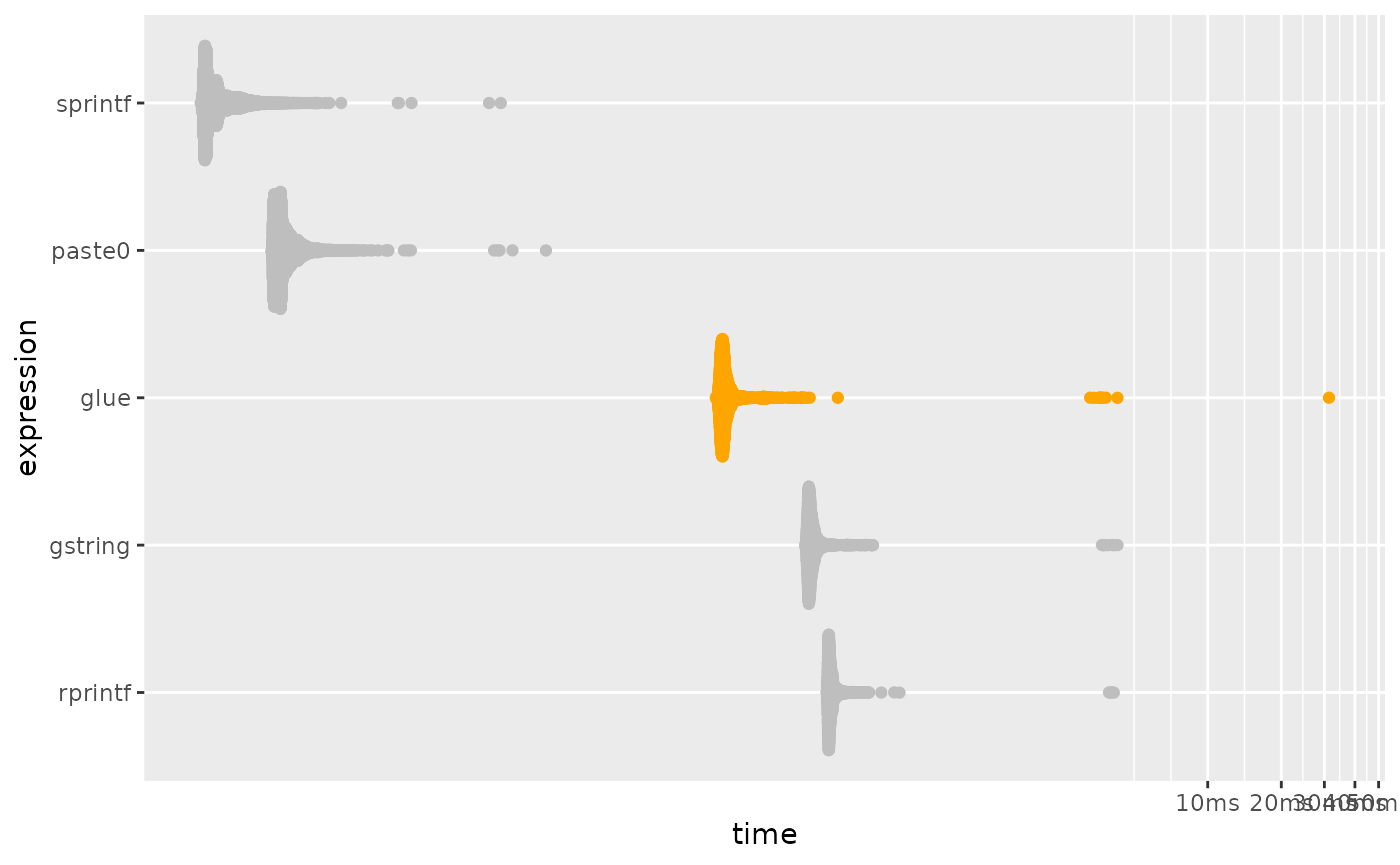
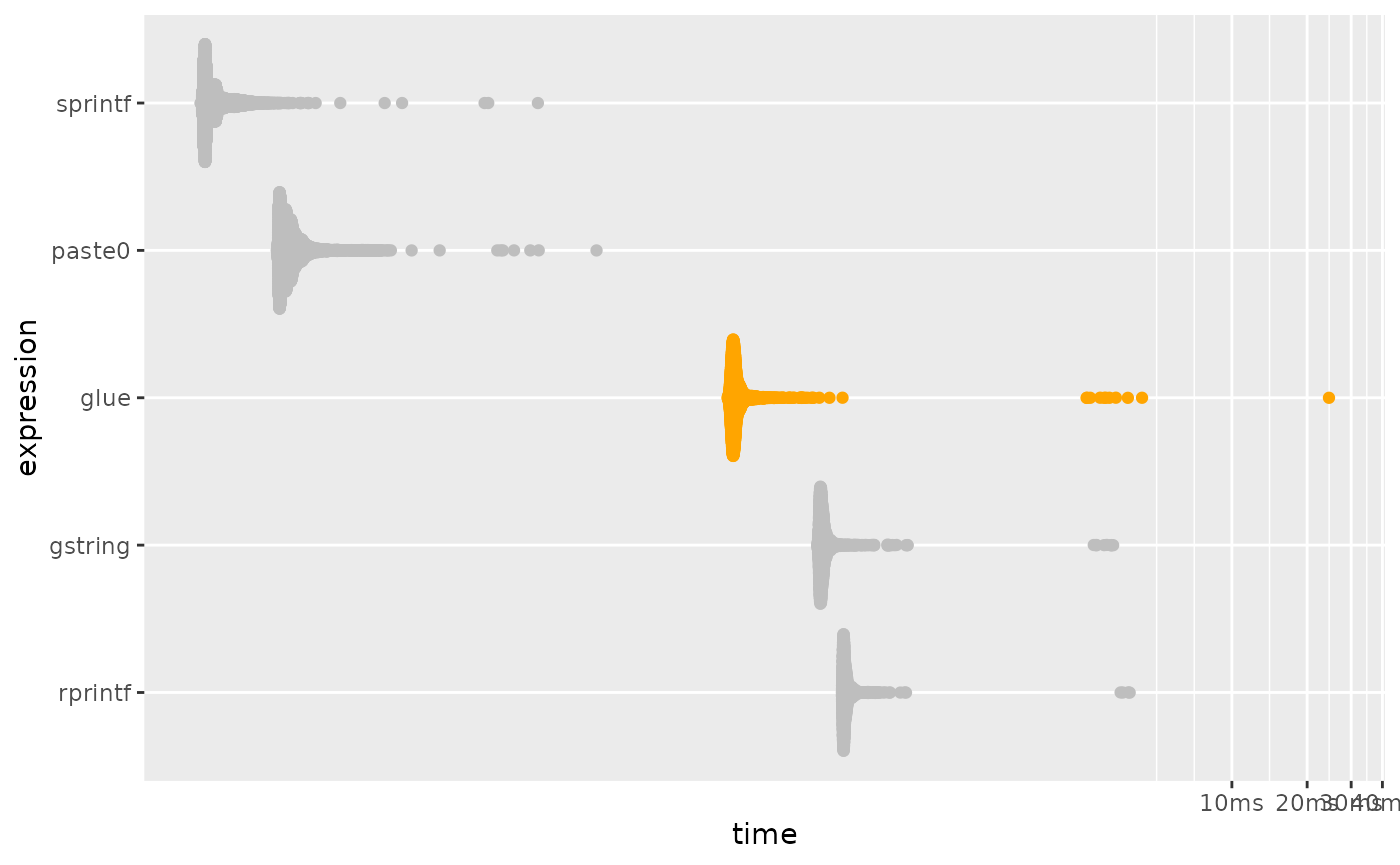
Deploying to gh-pages from @ tidyverse/glue@4809a463efd836547d78b8ee624f62a25f7a3829 🚀

diff --git a/dev/articles/speed.html b/dev/articles/speed.html
@@ -50,7 +50,7 @@
 <li class="active nav-item dropdown">
   <button class="nav-link dropdown-toggle" type="button" id="dropdown-articles" data-bs-toggle="dropdown" aria-expanded="false" aria-haspopup="true">Articles</button>
   <ul class="dropdown-menu" aria-labelledby="dropdown-articles">
-<li><a class="dropdown-item" href="../articles/engines.html">glue custom knitr language engines</a></li>
+<li><a class="dropdown-item" href="../articles/engines.html">Custom knitr language engines</a></li>
     <li><a class="dropdown-item" href="../articles/speed.html">Speed of glue</a></li>
     <li><a class="dropdown-item" href="../articles/transformers.html">Transformers</a></li>
     <li><a class="dropdown-item" href="../articles/wrappers.html">How to write a function that wraps glue</a></li>
@@ -154,11 +154,11 @@ this benchmark, but is now formally marked as “superseded”, in favor of
 <span><span class="co">#&gt; <span style="color: #949494;"># A tibble: 5 × 6</span></span></span>
 <span><span class="co">#&gt;   expression      min   median `itr/sec` mem_alloc `gc/sec`</span></span>
 <span><span class="co">#&gt;   <span style="color: #949494; font-style: italic;">&lt;bch:expr&gt;</span> <span style="color: #949494; font-style: italic;">&lt;bch:tm&gt;</span> <span style="color: #949494; font-style: italic;">&lt;bch:tm&gt;</span>     <span style="color: #949494; font-style: italic;">&lt;dbl&gt;</span> <span style="color: #949494; font-style: italic;">&lt;bch:byt&gt;</span>    <span style="color: #949494; font-style: italic;">&lt;dbl&gt;</span></span></span>
-<span><span class="co">#&gt; <span style="color: #BCBCBC;">1</span> sprintf    761.12ns 871.02ns  1<span style="text-decoration: underline;">090</span>374.        0B     0   </span></span>
-<span><span class="co">#&gt; <span style="color: #BCBCBC;">2</span> paste0       1.48µs   1.63µs   <span style="text-decoration: underline;">584</span>208.        0B     0   </span></span>
-<span><span class="co">#&gt; <span style="color: #BCBCBC;">3</span> glue        97.28µs 104.54µs     <span style="text-decoration: underline;">9</span>295.  141.72KB    25.5 </span></span>
-<span><span class="co">#&gt; <span style="color: #BCBCBC;">4</span> gstring    226.35µs 236.93µs     <span style="text-decoration: underline;">4</span>135.    2.45MB    14.8 </span></span>
-<span><span class="co">#&gt; <span style="color: #BCBCBC;">5</span> rprintf       276µs 284.96µs     <span style="text-decoration: underline;">3</span>447.  503.39KB     8.27</span></span>
+<span><span class="co">#&gt; <span style="color: #BCBCBC;">1</span> sprintf    751.11ns 812.11ns  1<span style="text-decoration: underline;">147</span>690.        0B     0   </span></span>
+<span><span class="co">#&gt; <span style="color: #BCBCBC;">2</span> paste0       1.51µs   1.68µs   <span style="text-decoration: underline;">570</span>589.        0B     0   </span></span>
+<span><span class="co">#&gt; <span style="color: #BCBCBC;">3</span> glue        96.09µs 102.31µs     <span style="text-decoration: underline;">9</span>544.  141.72KB    24.8 </span></span>
+<span><span class="co">#&gt; <span style="color: #BCBCBC;">4</span> gstring    220.01µs 229.09µs     <span style="text-decoration: underline;">4</span>263.    2.45MB    16.8 </span></span>
+<span><span class="co">#&gt; <span style="color: #BCBCBC;">5</span> rprintf    275.61µs  282.6µs     <span style="text-decoration: underline;">3</span>472.  503.39KB     8.25</span></span>
 <span></span>
 <span><span class="co"># plotting function defined in a hidden chunk</span></span>
 <span><span class="fu">plot_comparison</span><span class="op">(</span><span class="va">simple</span><span class="op">)</span></span>
@@ -207,11 +207,11 @@ performance is much closer to that of <code><a href="https://rdrr.io/r/base/past
 <span><span class="co">#&gt; <span style="color: #949494;"># A tibble: 5 × 6</span></span></span>
 <span><span class="co">#&gt;   expression      min   median `itr/sec` mem_alloc `gc/sec`</span></span>
 <span><span class="co">#&gt;   <span style="color: #949494; font-style: italic;">&lt;bch:expr&gt;</span> <span style="color: #949494; font-style: italic;">&lt;bch:tm&gt;</span> <span style="color: #949494; font-style: italic;">&lt;bch:tm&gt;</span>     <span style="color: #949494; font-style: italic;">&lt;dbl&gt;</span> <span style="color: #949494; font-style: italic;">&lt;bch:byt&gt;</span>    <span style="color: #949494; font-style: italic;">&lt;dbl&gt;</span></span></span>
-<span><span class="co">#&gt; <span style="color: #BCBCBC;">1</span> paste0       8.19ms    8.2ms     121.    781.3KB     6.39</span></span>
-<span><span class="co">#&gt; <span style="color: #BCBCBC;">2</span> sprintf      8.94ms   8.99ms     111.    781.3KB     4.19</span></span>
-<span><span class="co">#&gt; <span style="color: #BCBCBC;">3</span> gstring     11.03ms  11.11ms      89.1    1.53MB     6.52</span></span>
-<span><span class="co">#&gt; <span style="color: #BCBCBC;">4</span> glue         11.3ms  11.81ms      84.0    2.29MB     9.08</span></span>
-<span><span class="co">#&gt; <span style="color: #BCBCBC;">5</span> rprintf      27.5ms  27.64ms      36.0    3.05MB     7.21</span></span>
+<span><span class="co">#&gt; <span style="color: #BCBCBC;">1</span> paste0       8.18ms   8.23ms     120.    781.3KB     4.23</span></span>
+<span><span class="co">#&gt; <span style="color: #BCBCBC;">2</span> sprintf      9.01ms   9.29ms     108.    781.3KB     4.17</span></span>
+<span><span class="co">#&gt; <span style="color: #BCBCBC;">3</span> gstring     11.05ms  11.21ms      87.9    1.53MB     9.01</span></span>
+<span><span class="co">#&gt; <span style="color: #BCBCBC;">4</span> glue        11.25ms  11.72ms      85.7    2.29MB    11.6 </span></span>
+<span><span class="co">#&gt; <span style="color: #BCBCBC;">5</span> rprintf     27.41ms  28.19ms      35.0    3.05MB     4.37</span></span>
 <span></span>
 <span><span class="co"># plotting function defined in a hidden chunk</span></span>
 <span><span class="fu">plot_comparison</span><span class="op">(</span><span class="va">vectorized</span><span class="op">)</span></span></code></pre></div>

diff --git a/dev/articles/engines.html b/dev/articles/engines.html
@@ -5,7 +5,7 @@
 <meta charset="utf-8">
 <meta http-equiv="X-UA-Compatible" content="IE=edge">
 <meta name="viewport" content="width=device-width, initial-scale=1, shrink-to-fit=no">
-<title>glue custom knitr language engines • glue</title>
+<title>Custom knitr language engines • glue</title>
 <!-- favicons --><link rel="icon" type="image/png" sizes="16x16" href="../favicon-16x16.png">
 <link rel="icon" type="image/png" sizes="32x32" href="../favicon-32x32.png">
 <link rel="apple-touch-icon" type="image/png" sizes="180x180" href="../apple-touch-icon.png">
@@ -18,7 +18,7 @@
 <link href="../deps/Source_Code_Pro-0.4.9/font.css" rel="stylesheet">
 <link href="../deps/font-awesome-6.4.2/css/all.min.css" rel="stylesheet">
 <link href="../deps/font-awesome-6.4.2/css/v4-shims.min.css" rel="stylesheet">
-<script src="../deps/headroom-0.11.0/headroom.min.js"></script><script src="../deps/headroom-0.11.0/jQuery.headroom.min.js"></script><script src="../deps/bootstrap-toc-1.0.1/bootstrap-toc.min.js"></script><script src="../deps/clipboard.js-2.0.11/clipboard.min.js"></script><script src="../deps/search-1.0.0/autocomplete.jquery.min.js"></script><script src="../deps/search-1.0.0/fuse.min.js"></script><script src="../deps/search-1.0.0/mark.min.js"></script><!-- pkgdown --><script src="../pkgdown.js"></script><meta property="og:title" content="glue custom knitr language engines">
+<script src="../deps/headroom-0.11.0/headroom.min.js"></script><script src="../deps/headroom-0.11.0/jQuery.headroom.min.js"></script><script src="../deps/bootstrap-toc-1.0.1/bootstrap-toc.min.js"></script><script src="../deps/clipboard.js-2.0.11/clipboard.min.js"></script><script src="../deps/search-1.0.0/autocomplete.jquery.min.js"></script><script src="../deps/search-1.0.0/fuse.min.js"></script><script src="../deps/search-1.0.0/mark.min.js"></script><!-- pkgdown --><script src="../pkgdown.js"></script><meta property="og:title" content="Custom knitr language engines">
 <meta name="robots" content="noindex">
 <!-- Global site tag (gtag.js) - Google Analytics --><script async src="https://www.googletagmanager.com/gtag/js?id=UA-115082821-1"></script><script>
   window.dataLayer = window.dataLayer || [];
@@ -50,7 +50,7 @@
 <li class="active nav-item dropdown">
   <button class="nav-link dropdown-toggle" type="button" id="dropdown-articles" data-bs-toggle="dropdown" aria-expanded="false" aria-haspopup="true">Articles</button>
   <ul class="dropdown-menu" aria-labelledby="dropdown-articles">
-<li><a class="dropdown-item" href="../articles/engines.html">glue custom knitr language engines</a></li>
+<li><a class="dropdown-item" href="../articles/engines.html">Custom knitr language engines</a></li>
     <li><a class="dropdown-item" href="../articles/speed.html">Speed of glue</a></li>
     <li><a class="dropdown-item" href="../articles/transformers.html">Transformers</a></li>
     <li><a class="dropdown-item" href="../articles/wrappers.html">How to write a function that wraps glue</a></li>
@@ -83,7 +83,7 @@
 
 <div class="row">
   <main id="main" class="col-md-9"><div class="page-header">
-      <img src="../logo.png" class="logo" alt=""><h1>glue custom knitr language engines</h1>
+      <img src="../logo.png" class="logo" alt=""><h1>Custom knitr language engines</h1>
             
       
       <small class="dont-index">Source: <a href="https://github.com/tidyverse/glue/blob/main/vignettes/engines.Rmd" class="external-link"><code>vignettes/engines.Rmd</code></a></small>

diff --git a/dev/articles/index.html b/dev/articles/index.html
@@ -25,7 +25,7 @@
 <li class="nav-item"><a class="nav-link" href="../reference/index.html">Reference</a></li>
 <li class="nav-item dropdown">
   <button class="nav-link dropdown-toggle" type="button" id="dropdown-articles" data-bs-toggle="dropdown" aria-expanded="false" aria-haspopup="true">Articles</button>
-  <ul class="dropdown-menu" aria-labelledby="dropdown-articles"><li><a class="dropdown-item" href="../articles/engines.html">glue custom knitr language engines</a></li>
+  <ul class="dropdown-menu" aria-labelledby="dropdown-articles"><li><a class="dropdown-item" href="../articles/engines.html">Custom knitr language engines</a></li>
     <li><a class="dropdown-item" href="../articles/speed.html">Speed of glue</a></li>
     <li><a class="dropdown-item" href="../articles/transformers.html">Transformers</a></li>
     <li><a class="dropdown-item" href="../articles/wrappers.html">How to write a function that wraps glue</a></li>
@@ -54,7 +54,7 @@
       <h3>All vignettes</h3>
       <div class="section-desc"></div>
 
-      <dl><dt><a href="engines.html">glue custom knitr language engines</a></dt>
+      <dl><dt><a href="engines.html">Custom knitr language engines</a></dt>
         <dd>
         </dd><dt><a href="glue.html">Introduction to glue</a></dt>
         <dd>

diff --git a/dev/reference/as_glue.html b/dev/reference/as_glue.html
@@ -31,7 +31,7 @@ the addition operator.'><meta property="og:image" content="https://glue.tidyvers
 <li class="active nav-item"><a class="nav-link" href="../reference/index.html">Reference</a></li>
 <li class="nav-item dropdown">
   <button class="nav-link dropdown-toggle" type="button" id="dropdown-articles" data-bs-toggle="dropdown" aria-expanded="false" aria-haspopup="true">Articles</button>
-  <ul class="dropdown-menu" aria-labelledby="dropdown-articles"><li><a class="dropdown-item" href="../articles/engines.html">glue custom knitr language engines</a></li>
+  <ul class="dropdown-menu" aria-labelledby="dropdown-articles"><li><a class="dropdown-item" href="../articles/engines.html">Custom knitr language engines</a></li>
     <li><a class="dropdown-item" href="../articles/speed.html">Speed of glue</a></li>
     <li><a class="dropdown-item" href="../articles/transformers.html">Transformers</a></li>
     <li><a class="dropdown-item" href="../articles/wrappers.html">How to write a function that wraps glue</a></li>

diff --git a/dev/reference/glue-package.html b/dev/reference/glue-package.html
@@ -27,7 +27,7 @@ An implementation of interpreted string literals, inspired by Python's Literal S
 <li class="active nav-item"><a class="nav-link" href="../reference/index.html">Reference</a></li>
 <li class="nav-item dropdown">
   <button class="nav-link dropdown-toggle" type="button" id="dropdown-articles" data-bs-toggle="dropdown" aria-expanded="false" aria-haspopup="true">Articles</button>
-  <ul class="dropdown-menu" aria-labelledby="dropdown-articles"><li><a class="dropdown-item" href="../articles/engines.html">glue custom knitr language engines</a></li>
+  <ul class="dropdown-menu" aria-labelledby="dropdown-articles"><li><a class="dropdown-item" href="../articles/engines.html">Custom knitr language engines</a></li>
     <li><a class="dropdown-item" href="../articles/speed.html">Speed of glue</a></li>
     <li><a class="dropdown-item" href="../articles/transformers.html">Transformers</a></li>
     <li><a class="dropdown-item" href="../articles/wrappers.html">How to write a function that wraps glue</a></li>

diff --git a/dev/reference/glue.html b/dev/reference/glue.html
@@ -29,7 +29,7 @@ from the first and last lines are automatically trimmed."><meta property="og:ima
 <li class="active nav-item"><a class="nav-link" href="../reference/index.html">Reference</a></li>
 <li class="nav-item dropdown">
   <button class="nav-link dropdown-toggle" type="button" id="dropdown-articles" data-bs-toggle="dropdown" aria-expanded="false" aria-haspopup="true">Articles</button>
-  <ul class="dropdown-menu" aria-labelledby="dropdown-articles"><li><a class="dropdown-item" href="../articles/engines.html">glue custom knitr language engines</a></li>
+  <ul class="dropdown-menu" aria-labelledby="dropdown-articles"><li><a class="dropdown-item" href="../articles/engines.html">Custom knitr language engines</a></li>
     <li><a class="dropdown-item" href="../articles/speed.html">Speed of glue</a></li>
     <li><a class="dropdown-item" href="../articles/transformers.html">Transformers</a></li>
     <li><a class="dropdown-item" href="../articles/wrappers.html">How to write a function that wraps glue</a></li>

diff --git a/dev/reference/glue_col.html b/dev/reference/glue_col.html
@@ -47,7 +47,7 @@ character, specify .literal = TRUE."><meta property="og:image" content="https://
 <li class="active nav-item"><a class="nav-link" href="../reference/index.html">Reference</a></li>
 <li class="nav-item dropdown">
   <button class="nav-link dropdown-toggle" type="button" id="dropdown-articles" data-bs-toggle="dropdown" aria-expanded="false" aria-haspopup="true">Articles</button>
-  <ul class="dropdown-menu" aria-labelledby="dropdown-articles"><li><a class="dropdown-item" href="../articles/engines.html">glue custom knitr language engines</a></li>
+  <ul class="dropdown-menu" aria-labelledby="dropdown-articles"><li><a class="dropdown-item" href="../articles/engines.html">Custom knitr language engines</a></li>
     <li><a class="dropdown-item" href="../articles/speed.html">Speed of glue</a></li>
     <li><a class="dropdown-item" href="../articles/transformers.html">Transformers</a></li>
     <li><a class="dropdown-item" href="../articles/wrappers.html">How to write a function that wraps glue</a></li>

diff --git a/dev/reference/glue_collapse.html b/dev/reference/glue_collapse.html
@@ -29,7 +29,7 @@ object rather than a glue object."><meta property="og:image" content="https://gl
 <li class="active nav-item"><a class="nav-link" href="../reference/index.html">Reference</a></li>
 <li class="nav-item dropdown">
   <button class="nav-link dropdown-toggle" type="button" id="dropdown-articles" data-bs-toggle="dropdown" aria-expanded="false" aria-haspopup="true">Articles</button>
-  <ul class="dropdown-menu" aria-labelledby="dropdown-articles"><li><a class="dropdown-item" href="../articles/engines.html">glue custom knitr language engines</a></li>
+  <ul class="dropdown-menu" aria-labelledby="dropdown-articles"><li><a class="dropdown-item" href="../articles/engines.html">Custom knitr language engines</a></li>
     <li><a class="dropdown-item" href="../articles/speed.html">Speed of glue</a></li>
     <li><a class="dropdown-item" href="../articles/transformers.html">Transformers</a></li>
     <li><a class="dropdown-item" href="../articles/wrappers.html">How to write a function that wraps glue</a></li>

diff --git a/dev/reference/glue_safe.html b/dev/reference/glue_safe.html
@@ -33,7 +33,7 @@ normal functions would allow an attacker to execute arbitrary code."><meta prope
 <li class="active nav-item"><a class="nav-link" href="../reference/index.html">Reference</a></li>
 <li class="nav-item dropdown">
   <button class="nav-link dropdown-toggle" type="button" id="dropdown-articles" data-bs-toggle="dropdown" aria-expanded="false" aria-haspopup="true">Articles</button>
-  <ul class="dropdown-menu" aria-labelledby="dropdown-articles"><li><a class="dropdown-item" href="../articles/engines.html">glue custom knitr language engines</a></li>
+  <ul class="dropdown-menu" aria-labelledby="dropdown-articles"><li><a class="dropdown-item" href="../articles/engines.html">Custom knitr language engines</a></li>
     <li><a class="dropdown-item" href="../articles/speed.html">Speed of glue</a></li>
     <li><a class="dropdown-item" href="../articles/transformers.html">Transformers</a></li>
     <li><a class="dropdown-item" href="../articles/wrappers.html">How to write a function that wraps glue</a></li>

diff --git a/dev/reference/glue_sql.html b/dev/reference/glue_sql.html
@@ -59,7 +59,7 @@ SQL IN Operator."><meta property="og:image" content="https://glue.tidyverse.org/
 <li class="active nav-item"><a class="nav-link" href="../reference/index.html">Reference</a></li>
 <li class="nav-item dropdown">
   <button class="nav-link dropdown-toggle" type="button" id="dropdown-articles" data-bs-toggle="dropdown" aria-expanded="false" aria-haspopup="true">Articles</button>
-  <ul class="dropdown-menu" aria-labelledby="dropdown-articles"><li><a class="dropdown-item" href="../articles/engines.html">glue custom knitr language engines</a></li>
+  <ul class="dropdown-menu" aria-labelledby="dropdown-articles"><li><a class="dropdown-item" href="../articles/engines.html">Custom knitr language engines</a></li>
     <li><a class="dropdown-item" href="../articles/speed.html">Speed of glue</a></li>
     <li><a class="dropdown-item" href="../articles/transformers.html">Transformers</a></li>
     <li><a class="dropdown-item" href="../articles/wrappers.html">How to write a function that wraps glue</a></li>

diff --git a/dev/reference/identity_transformer.html b/dev/reference/identity_transformer.html
@@ -27,7 +27,7 @@ transformer."><meta property="og:image" content="https://glue.tidyverse.org/logo
 <li class="active nav-item"><a class="nav-link" href="../reference/index.html">Reference</a></li>
 <li class="nav-item dropdown">
   <button class="nav-link dropdown-toggle" type="button" id="dropdown-articles" data-bs-toggle="dropdown" aria-expanded="false" aria-haspopup="true">Articles</button>
-  <ul class="dropdown-menu" aria-labelledby="dropdown-articles"><li><a class="dropdown-item" href="../articles/engines.html">glue custom knitr language engines</a></li>
+  <ul class="dropdown-menu" aria-labelledby="dropdown-articles"><li><a class="dropdown-item" href="../articles/engines.html">Custom knitr language engines</a></li>
     <li><a class="dropdown-item" href="../articles/speed.html">Speed of glue</a></li>
     <li><a class="dropdown-item" href="../articles/transformers.html">Transformers</a></li>
     <li><a class="dropdown-item" href="../articles/wrappers.html">How to write a function that wraps glue</a></li>

diff --git a/dev/reference/quoting.html b/dev/reference/quoting.html
@@ -29,7 +29,7 @@ base::encodeString()."><meta property="og:image" content="https://glue.tidyverse
 <li class="active nav-item"><a class="nav-link" href="../reference/index.html">Reference</a></li>
 <li class="nav-item dropdown">
   <button class="nav-link dropdown-toggle" type="button" id="dropdown-articles" data-bs-toggle="dropdown" aria-expanded="false" aria-haspopup="true">Articles</button>
-  <ul class="dropdown-menu" aria-labelledby="dropdown-articles"><li><a class="dropdown-item" href="../articles/engines.html">glue custom knitr language engines</a></li>
+  <ul class="dropdown-menu" aria-labelledby="dropdown-articles"><li><a class="dropdown-item" href="../articles/engines.html">Custom knitr language engines</a></li>
     <li><a class="dropdown-item" href="../articles/speed.html">Speed of glue</a></li>
     <li><a class="dropdown-item" href="../articles/transformers.html">Transformers</a></li>
     <li><a class="dropdown-item" href="../articles/wrappers.html">How to write a function that wraps glue</a></li>
